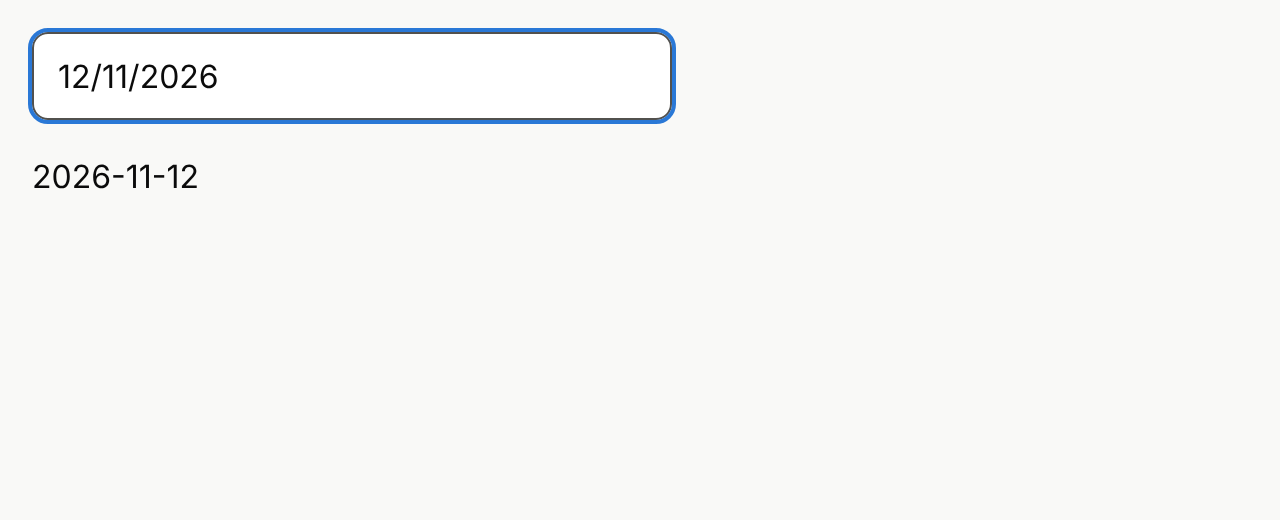
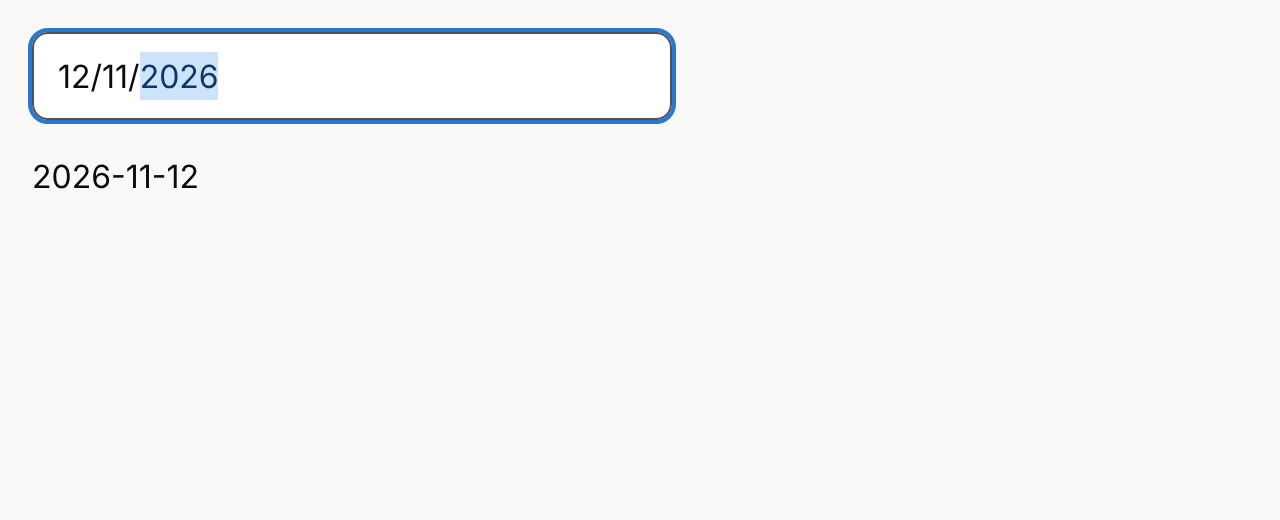
wip(date-picker): T2, second passage de la QA (un défaut restant sur champ étroit)
Claude-Session: https://claude.ai/code/session_011nLZSEPJfzJTrYmUmaR8vs

Changed region(s): [[0.0938, 0.0923, 0.1875, 0.2154]]

diff --git a/packages/angular/forms/src/date-input/date-input.acceptance.spec.ts b/packages/angular/forms/src/date-input/date-input.acceptance.spec.ts
@@ -217,6 +217,33 @@ describe('CA-6 un jour qui n’existe pas ne se saisit pas, sans message', () =>
     input.focus();
     await type('29');
     expect(input.value).toBe('02/02/2026');
+    expect(host.value()).toBe('2026-02-02');
+    await type('5');
+    expect(host.value()).toBe('2026-02-25');
+  });
+
+  it('CA-6 : mois 02 rempli, 3 puis 2026 donne 03/02/2026 sans flèche ni Tab', async () => {
+    const { host, input, key, type } = await mount(HostComponent);
+    await key('ArrowRight');
+    await type('02');
+    await key('ArrowLeft');
+    await key('ArrowLeft');
+    await type('32026');
+    expect(input.value).toBe('03/02/2026');
+    expect(host.value()).toBe('2026-02-03');
+  });
+
+  it('CA-6 : 3 puis 1 en avril : le 1 est ignoré, la frappe continue', async () => {
+    const { host, input, key, type } = await mount(HostComponent);
+    await key('ArrowRight');
+    await type('04');
+    await key('ArrowLeft');
+    await key('ArrowLeft');
+    await type('31');
+    expect(input.value).toBe('03/04/aaaa');
+    await type('02026');
+    expect(input.value).toBe('30/04/2026');
+    expect(host.value()).toBe('2026-04-30');
   });
 
   it('CA-6 : « 31/02/2026 » collé donne 28/02/2026', async () => {
@@ -315,6 +342,24 @@ describe('CA-8 collage', () => {
     expect(host.value()).toBe(iso);
   });
 
+  it.each(['45/11/2026', '12/13/2026'])('CA-8 : « %s » est non reconnu, champ et valeur inchangés', async (text) => {
+    const { host, input, paste, message, settle } = await mount(HostComponent);
+    host.value.set('2026-03-05');
+    await settle();
+    await paste(text);
+    expect(input.value).toBe('05/03/2026');
+    expect(host.value()).toBe('2026-03-05');
+    expect(message()).toEqual([UNREADABLE]);
+  });
+
+  it('CA-6 : « 31/04/2026 » collé est ramené à 30/04/2026 sans message', async () => {
+    const { host, input, paste, message } = await mount(HostComponent);
+    await paste('31/04/2026');
+    expect(input.value).toBe('30/04/2026');
+    expect(host.value()).toBe('2026-04-30');
+    expect(message()).toEqual([]);
+  });
+
   it.each(['12/11/26', 'demain'])('CA-8 : « %s » laisse champ et valeur, message jusqu’à la frappe suivante', async (text) => {
     const { host, input, paste, message, key, settle } = await mount(HostComponent);
     host.value.set('2026-03-05');
@@ -384,5 +429,39 @@ describe('CA-11 disabled et readonly (date simple)', () => {
     expect(host.value()).toBe('2026-03-05');
     expect(root.querySelector('button')).toBeNull();
     expect(document.querySelector('[role="dialog"]')).toBeNull();
+  });
+});
+
+describe('touches spéciales : aucun message', () => {
+  const noMessage = (m: () => string[]) => expect(m()).toEqual([]);
+
+  it('touche morte, composition et Ctrl + X : aucun message, rien ne change', async () => {
+    const { host, input, key, message, settle } = await mount(HostComponent);
+    host.value.set('2026-03-05');
+    await settle();
+    input.blur();
+    input.focus();
+    await key('Dead');
+    await key('Process');
+    await key('x', { ctrlKey: true });
+    input.dispatchEvent(new CompositionEvent('compositionstart', { bubbles: true }));
+    input.dispatchEvent(new CompositionEvent('compositionupdate', { bubbles: true, data: '^' }));
+    input.dispatchEvent(new Event('input', { bubbles: true }));
+    input.dispatchEvent(new CompositionEvent('compositionend', { bubbles: true, data: '^' }));
+    await settle();
+    noMessage(message);
+    expect(input.hasAttribute('aria-invalid')).toBe(false);
+    expect(host.value()).toBe('2026-03-05');
+  });
+
+  it('beforeinput insertText (clavier virtuel) : le chiffre s’inscrit, aucun message', async () => {
+    const { host, input, message, settle } = await mount(HostComponent);
+    for (const data of '12112026') {
+      input.dispatchEvent(new InputEvent('beforeinput', { inputType: 'insertText', data, bubbles: true, cancelable: true }));
+      await settle();
+    }
+    noMessage(message);
+    expect(input.value).toBe('12/11/2026');
+    expect(host.value()).toBe('2026-11-12');
   });
 });

diff --git a/packages/angular/forms/src/stories/date-input.acceptance.stories.ts b/packages/angular/forms/src/stories/date-input.acceptance.stories.ts
@@ -7,6 +7,7 @@ import '../../../../tokens/dist/css/theme-default.css';
 import '../../../../tokens/dist/css/theme-dark.css';
 import '../../../../tokens/dist/css/base.css';
 import '../../../styles/ui-angular.css';
+import { LC_LOCALE } from '@lionelcointot/ui-angular';
 import { LcDateInputComponent } from '../date-input/date-input.component';
 import { LC_DATE_PICKER } from '../date-input/date-picker-mode';
 
@@ -43,7 +44,10 @@ export const ClicEtFrappe: Story = {
     await userEvent.click(input);
     expect(input).toHaveFocus();
     expect(selection(input)).not.toBe('');
-    await userEvent.keyboard('12112026');
+    for (const digit of '12112026') {
+      await userEvent.keyboard(digit);
+      expect(selection(input)).not.toBe('');
+    }
     expect(input.value).toBe('12/11/2026');
     expect(within(canvasElement).getByTestId('value')).toHaveTextContent('2026-11-12');
   },
@@ -125,3 +129,33 @@ export const ContenuSuivant: Story = {
 
 /** Captures : champ vide, sans scénario joué. */
 export const ChampVide: Story = {};
+
+/** Mode natif (navigateur) : l'hôte n'a pas `position: relative` (le style du mode calendrier ne fuit pas). */
+export const HoteNatif: Story = {
+  decorators: [applicationConfig({ providers: [{ provide: LC_DATE_PICKER, useValue: 'native' }] })],
+  play: async ({ canvasElement }) => {
+    const host = canvasElement.querySelector('lc-date-input')!;
+    expect(getComputedStyle(host).position).not.toBe('relative');
+    expect(host.querySelector('input[type=date]')).not.toBeNull();
+    expect(host.querySelector('[role=alert], button')).toBeNull();
+  },
+};
+
+/** Captures et essais : champ vide en en-US (mois, jour, année). */
+export const ChampVideEnUS: Story = {
+  decorators: [applicationConfig({ providers: [{ provide: LC_LOCALE, useValue: { locale: 'en-US', currency: 'USD' } }] })],
+};
+
+@Component({
+  selector: 'lc-date-input-narrow',
+  imports: [LcDateInputComponent],
+  template: `<div style="inline-size:160px"><lc-date-input ariaLabel="Date" />
+    <button type="button" style="display:block;inline-size:100%;min-block-size:40px">Suite</button></div>`,
+})
+class NarrowComponent {}
+
+/** Captures : champ étroit (160 px), message hors formulaire. */
+export const ChampEtroit: Story = {
+  decorators: [moduleMetadata({ imports: [NarrowComponent] })],
+  render: () => ({ template: '<lc-date-input-narrow />' }),
+};
